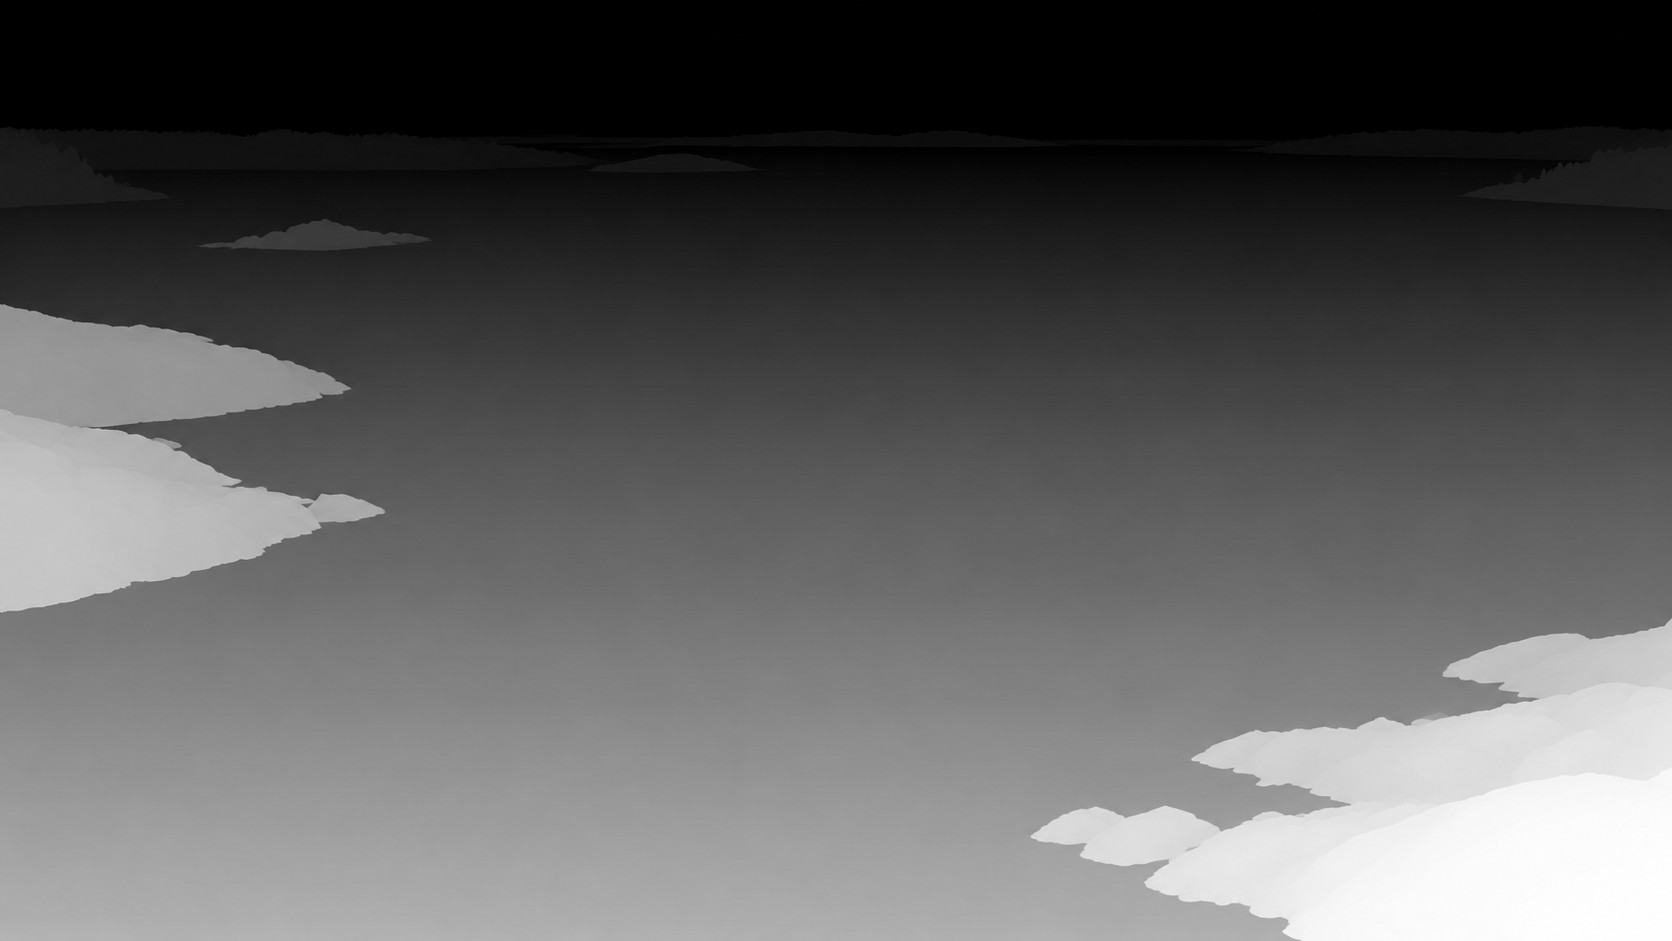
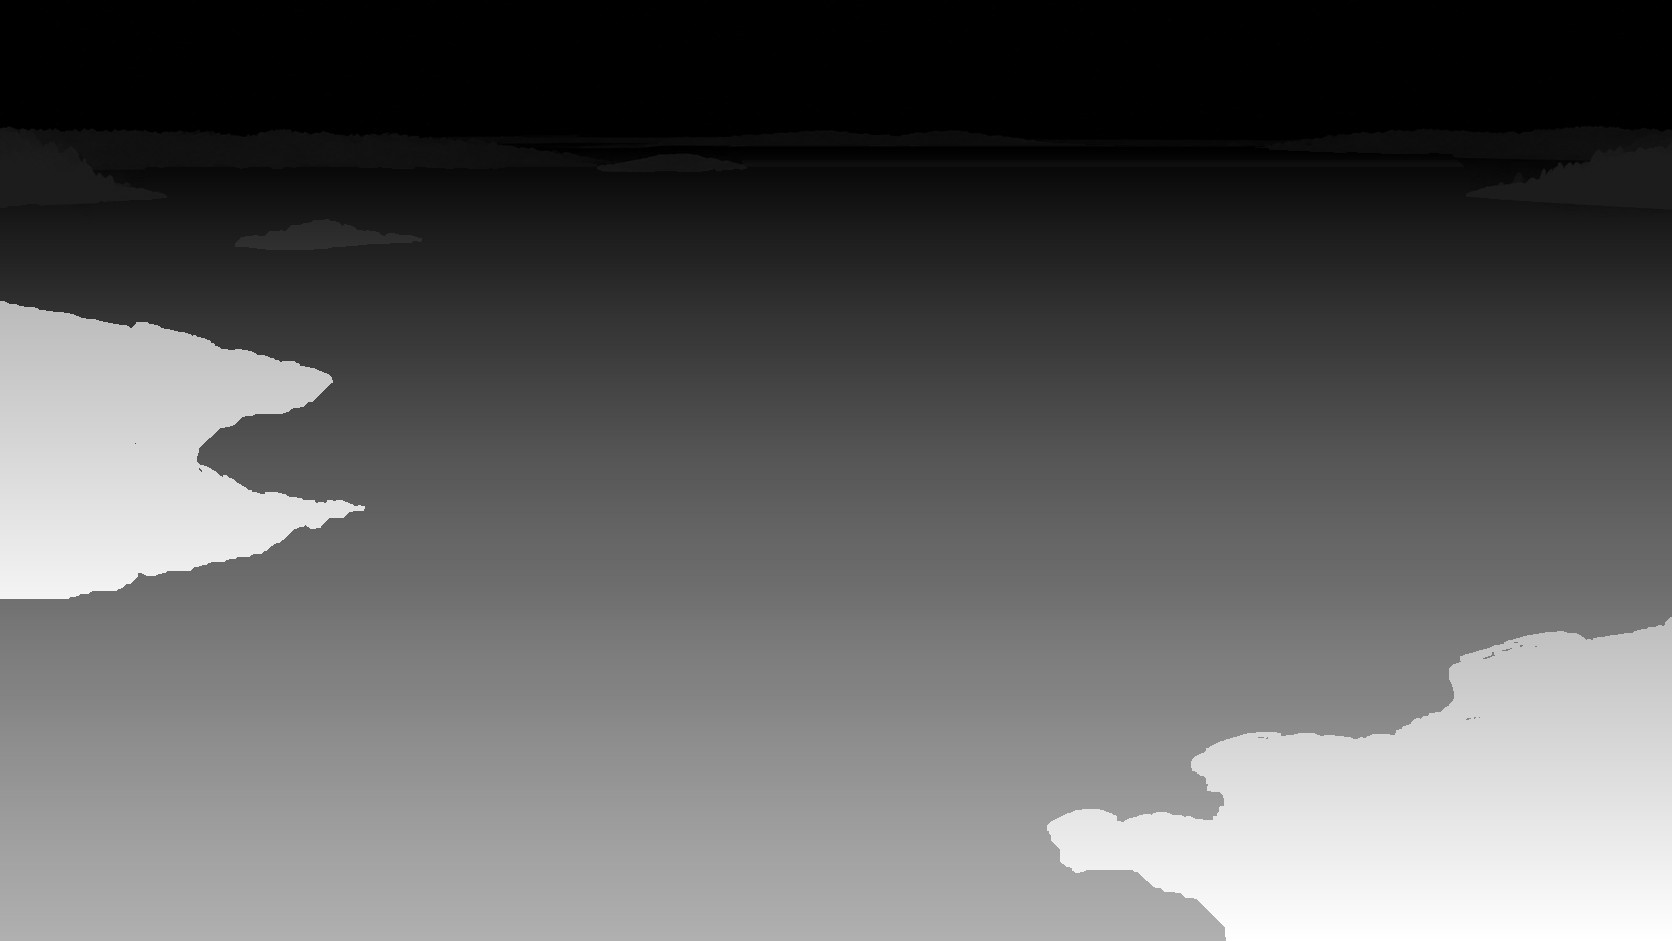
Live surf breaks along the rocks on the foam-free plate; the pan into the bay drips darkness sideways

diff --git a/index.html b/index.html
@@ -106,7 +106,7 @@ canvas { position: fixed; inset: 0; width: 100%; height: 100%; display: block; }
   // ---- the bay in 3D: loaded once the way in is clicked, drawn under this canvas once it shows ----
   let bay = null, bayLoad = null;
   const q0 = new URLSearchParams(location.search);
-  const loadBay = () => bayLoad || (bayLoad = import('./bay.js?v=' + (q0.get('v') || 'b38')).then(m => { bay = m.createBay($('bay')); window.observerBay = bay; return bay; }).catch(e => { console.warn('bay', e); return null; }));
+  const loadBay = () => bayLoad || (bayLoad = import('./bay.js?v=' + (q0.get('v') || 'b39')).then(m => { bay = m.createBay($('bay')); window.observerBay = bay; return bay; }).catch(e => { console.warn('bay', e); return null; }));
   const P = { x: 0, y: 0 };   // the point on screen this frame
   const wait = ms => new Promise(r => setTimeout(r, reduce ? Math.min(ms, 600) : ms));
   let skipping = false;
@@ -201,13 +201,16 @@ canvas { position: fixed; inset: 0; width: 100%; height: 100%; display: block; }
     openingCam.x += (aimX - openingCam.x) * camEase;
     openingCam.y += (aimY - openingCam.y) * camEase;
     const openingDepth = reduce ? 0 : Math.max(0, 1 - S.follow - S.bay);
-    const depthUnit = Math.min(W, H) * openingDepth;
-    const pointDx = openingCam.x * depthUnit * .004, pointDy = openingCam.y * depthUnit * .004;
+    const pointDx = openingCam.x * W * .002 * openingDepth;
+    const pointDy = openingCam.y * H * .0015 * openingDepth;
+    const eyeDx = openingCam.x * W * .003 * openingDepth;
+    const eyeDy = openingCam.y * H * .0025 * openingDepth;
     if (bay && S.follow > 0) {
       bay.st.fade = 1; bay.render(dt);
-      $('bay').style.transform = `translate3d(${(1 - S.follow) * W}px,0,0)`;
+      const travel = 2 * W;
+      $('bay').style.transform = `translate3d(${travel * (1 - S.follow)}px,0,0)`;
       g.clearRect(0, 0, W, H);
-      const seam = (1 - S.follow) * W;
+      const seam = travel * (1 - S.follow);
       g.fillStyle = '#050506'; g.fillRect(0, 0, seam, H);
       if (S.edge > 0) {
         const feather = Math.min(W * .24, 300);
@@ -215,8 +218,30 @@ canvas { position: fixed; inset: 0; width: 100%; height: 100%; display: block; }
         shadow.addColorStop(0, `rgba(5,5,6,${S.edge})`);
         shadow.addColorStop(1, 'rgba(5,5,6,0)');
         g.fillStyle = shadow; g.fillRect(seam, 0, feather, H);
+        // Darkness runs sideways off the edge like ink: uneven tendrils that
+        // creep and waver, each ending in a bead, drawn back as the bay settles.
+        const hash = n => { const s = Math.sin(n * 127.1) * 43758.5453; return s - Math.floor(s); };
+        g.save(); g.fillStyle = '#050506'; g.filter = `blur(${Math.max(1.5, W / 640)}px)`;
+        const count = Math.round(H / 55);
+        for (let i = 0; i < count; i++) {
+          const y = H * (i + hash(i + 1)) / count;
+          const len = feather * (.3 + 1.7 * Math.pow(hash(i + 9), 1.4)) * S.edge * (.86 + .14 * Math.sin(t * .6 + i * 2.3));
+          if (len < 8) continue;
+          const half = H * (.03 + .045 * hash(i + 21));
+          const wav = H * .01 * (.4 + hash(i + 33)), k = 2 + 3 * hash(i + 45), ph = t * .8 + i;
+          const at = u => y + Math.sin(u * k + ph) * wav * u;
+          // full at the edge, narrowing to a neck, then a heavy round end
+          const width = u => half * (1 - .7 * u * u * (3 - 2 * u));
+          const steps = 18;
+          g.beginPath(); g.moveTo(seam - 4, y - half * 1.6);
+          for (let s = 0; s <= steps; s++) { const u = s / steps; g.lineTo(seam + len * u, at(u) - width(u)); }
+          for (let s = steps; s >= 0; s--) { const u = s / steps; g.lineTo(seam + len * u, at(u) + width(u)); }
+          g.lineTo(seam - 4, y + half * 1.6); g.closePath(); g.fill();
+          g.beginPath(); g.arc(seam + len, at(1), half * (.42 + .16 * hash(i + 57)), 0, 7); g.fill();
+        }
+        g.restore();
       }
-      cx = W / 2 - S.follow * W;
+      cx = W / 2 - S.follow * travel;
     } else if (bay && S.bay > 0) {
       bay.st.fade = S.bay; bay.render(dt);
       const p = bay.screen(); cx += (p.x - cx) * S.bay; cy += (p.y - cy) * S.bay;
@@ -280,15 +305,15 @@ canvas { position: fixed; inset: 0; width: 100%; height: 100%; display: block; }
         if (S.pull >= 1 && r !== followRay) continue;
         const p = Math.max(0, Math.min(1, (S.lines - r.delay * .6) / .4)); if (!p) continue;
         const reach = R * r.d * (r === followRay ? 1 : 1 - S.pull);
-        const x0 = cx + Math.cos(r.a) * reach + openingCam.x * depthUnit * .032;
-        const y0 = cy + Math.sin(r.a) * reach + openingCam.y * depthUnit * .032;
+        const x0 = cx + Math.cos(r.a) * reach + openingCam.x * W * .020 * openingDepth;
+        const y0 = cy + Math.sin(r.a) * reach + openingCam.y * H * .0125 * openingDepth;
         const x1 = x0 + (cx - x0) * p, y1 = y0 + (cy - y0) * p;
         const lg = g.createLinearGradient(x0, y0, cx, cy);
         lg.addColorStop(0, 'rgba(233,228,218,0)'); lg.addColorStop(1, `rgba(233,228,218,${.22 * S.linesA})`);
         g.strokeStyle = lg; g.beginPath(); g.moveTo(x0, y0); g.lineTo(x1, y1); g.stroke();
       }
       if (S.follow > 0) {
-        const lampX = (1 - S.follow) * W + W / 2;
+        const lampX = (1 - S.follow) * 2 * W + W / 2;
         g.strokeStyle = `rgba(233,228,218,${.22 * (1 - S.follow)})`;
         g.beginPath(); g.moveTo(cx, cy); g.lineTo(lampX, cy); g.stroke();
       }
@@ -315,10 +340,10 @@ canvas { position: fixed; inset: 0; width: 100%; height: 100%; display: block; }
         const pe = Math.min(1, (t - eyeT0) / 2.6), eo = 1 - Math.pow(1 - pe, 3);
         const A = W * .45, B = H * .36, ea = S.pt * S.eye * (.75 - .4 * pe);
         if (titleW && S.titleA > 0) {
-          g.save(); eyePath(cx, cy, A * eo + 1, B * eo + 1); g.clip(); g.globalAlpha = S.titleA;
-          g.drawImage(titleCv, cx - titleW / 2 + openingCam.x * depthUnit * .011, H * .27 - titleH / 2 + openingCam.y * depthUnit * .011, titleW, titleH); g.restore();
+          g.save(); eyePath(cx + eyeDx, cy + eyeDy, A * eo + 1, B * eo + 1); g.clip(); g.globalAlpha = S.titleA;
+          g.drawImage(titleCv, cx - titleW / 2 + openingCam.x * W * .007 * openingDepth, H * .27 - titleH / 2 + openingCam.y * H * .0045 * openingDepth, titleW, titleH); g.restore();
         }
-        g.strokeStyle = `rgba(255,246,228,${ea})`; eyePath(cx, cy, 4 + A * eo, 2 + B * eo); g.stroke();
+        g.strokeStyle = `rgba(255,246,228,${ea})`; eyePath(cx + eyeDx, cy + eyeDy, 4 + A * eo, 2 + B * eo); g.stroke();
       }
       // the heartbeat, on each ping
       const n = Math.floor(t / 3.33); if (n !== lastBeat) { lastBeat = n; if (S.pt > .5) beat(); }
@@ -415,16 +440,16 @@ canvas { position: fixed; inset: 0; width: 100%; height: 100%; display: block; }
       await Promise.race([bay.ready, wait(8000)]);
       play('follow');
       followVolume(true);
-      const firstLine = say('Follow one line back.', 3400);
-      await tween('follow', .45, 2800, k => k * k * (3 - 2 * k));
-      await firstLine;
-      followVolume(false);
-      const nextLine = say('It leads into Robert Blake’s mind.', 3800);
-      await tween('follow', 1, 3300, k => k * k * (3 - 2 * k));
+      const voices = (async () => {
+        await say('Follow one line back.', 3400);
+        followVolume(false);
+        await say('It leads into Robert Blake’s mind.', 3800);
+      })();
+      await tween('follow', 1, 8400, k => k * k * (3 - 2 * k));
       S.bay = 1; S.linesA = 0;
-      await tween('edge', 0, 850);
+      await tween('edge', 0, 1000);
       S.follow = 0; $('bay').style.transform = '';
-      await nextLine;
+      await voices;
       return bayScene();
     }
     // without WebGL: the point becomes a lamp, going down on a cable into the bay

diff --git a/bay.js b/bay.js
@@ -616,9 +616,15 @@ export function createBay(canvas) {
   // Only the still shore, rocks and sky come from the sharp plate; every open
   // water pixel remains the live moving mesh. The focus pass follows it.
   const plate = new ShaderPass({
-    uniforms: { tDiffuse: { value: null }, scenery: { value: null }, stillMask: { value: null }, depthMap: { value: null }, sceneCam: { value: new THREE.Vector2() }, zoom: { value: 1 }, aspect: { value: 1.777 } },
+    uniforms: { tDiffuse: { value: null }, scenery: { value: null }, stillMask: { value: null }, depthMap: { value: null }, shoreMap: { value: null }, shoreReady: { value: 0 }, surfTime: { value: 0 }, sceneCam: { value: new THREE.Vector2() }, zoom: { value: 1 }, aspect: { value: 1.777 } },
     vertexShader: `varying vec2 vUv; void main() { vUv = uv; gl_Position = projectionMatrix * modelViewMatrix * vec4(position, 1.0); }`,
-    fragmentShader: `uniform sampler2D tDiffuse, scenery, stillMask, depthMap; uniform vec2 sceneCam; uniform float zoom, aspect; varying vec2 vUv;
+    fragmentShader: `uniform sampler2D tDiffuse, scenery, stillMask, depthMap, shoreMap; uniform vec2 sceneCam; uniform float zoom, aspect, shoreReady, surfTime; varying vec2 vUv;
+      float h(vec2 p) { return fract(sin(dot(p, vec2(127.1, 311.7))) * 43758.5453); }
+      float noise2(vec2 p) {
+        vec2 i = floor(p), f = fract(p); f = f * f * (3.0 - 2.0 * f);
+        return mix(mix(h(i), h(i + vec2(1.0, 0.0)), f.x),
+                   mix(h(i + vec2(0.0, 1.0)), h(i + 1.0), f.x), f.y);
+      }
       void main() {
         vec3 live = texture2D(tDiffuse, vUv).rgb;
         float scale = mix(1.0, 3.1, smoothstep(0.0, 1.0, zoom));
@@ -635,7 +641,51 @@ export function createBay(canvas) {
         vec2 skyUv = vec2(mix(.70, .50, crop) + (uv.x - .5) * crop, uv.y);
         vec3 photoSky = pow(texture2D(scenery, skyUv).rgb, vec3(.80));
         photo = mix(photo, photoSky, 1.0 - smoothstep(.13, .20, y));
-        gl_FragColor = vec4(mix(live, photo, still * fade), 1.0);
+        vec3 color = mix(live, photo, still * fade);
+        if (shoreReady > .5 && fade > .01) {
+          // The shore map is signed distance in source pixels: 128 at the
+          // waterline, lighter inland, darker in water. The foam crests climb
+          // the rock on one swell, then drain back on the next.
+          vec2 sourcePx = uv * vec2(1672.0, 941.0);
+          float distancePx = texture2D(shoreMap, uv).r * 255.0 - 128.0;
+          if (abs(distancePx) < 28.0) {
+            // Each swell reaches the shore at a different moment along it, so
+            // only stretches of the rock are breaking at any time.
+            float along = sourcePx.x * .013 + 1.6 * sin(sourcePx.x * .004 + sourcePx.y * .009);
+            float swell = sin(surfTime * 1.05 - along);
+            float surge = pow(max(swell, 0.0), 2.5);
+            float wash = pow(max(sin(surfTime * 1.05 - along - .9), 0.0), 1.5);
+            // the white climbs the rock as the swell lands, then drains back off it
+            float runup = -4.0 + 9.0 * surge;
+            vec2 q = mat2(.8, -.6, .6, .8) * sourcePx;
+            float n = .6 * noise2(q * .11 + vec2(surfTime * .5, -surfTime * .3))
+                    + .4 * noise2(q * .29 - vec2(surfTime * .9, surfTime * .6));
+            float broken = smoothstep(.36, .72, n);
+            float foam = exp(-pow((distancePx - runup) / (1.6 + 2.4 * surge), 2.0)) * surge * broken;
+            // what the last swell left: thin streaks pulled out on the water
+            float lace = exp(-pow((distancePx + 3.0 + 6.0 * (1.0 - wash)) / 3.0, 2.0)) * wash * (1.0 - surge) * .6
+                       * smoothstep(.55, .85, noise2(sourcePx * vec2(.11, .45) + vec2(surfTime * .3, surfTime * .8)));
+            float spray = 0.0;
+            vec2 cell = floor(sourcePx / 13.0);
+            for (int ix = -1; ix <= 1; ix++) for (int iy = -1; iy <= 1; iy++) {
+              vec2 id = cell + vec2(float(ix), float(iy));
+              float seed = h(id);
+              if (seed < .80) continue;
+              vec2 origin = (id + .5) * 13.0;
+              float atLine = abs(texture2D(shoreMap, origin / vec2(1672.0, 941.0)).r * 255.0 - 128.0);
+              // a burst only goes up where that stretch of shore is breaking
+              float hit = pow(max(sin(surfTime * 1.05 - (origin.x * .013 + 1.6 * sin(origin.x * .004 + origin.y * .009)) + .35), 0.0), 4.0);
+              float age = fract(surfTime * (.65 + .4 * h(id + 17.0)) + seed);
+              vec2 bead = origin + vec2((h(id + 7.0) - .5) * age * 13.0,
+                                         age * 30.0 - age * age * 16.0);
+              float radius = mix(2.4, .7, age);
+              spray += (1.0 - smoothstep(radius * .5, radius, length(sourcePx - bead)))
+                     * (1.0 - smoothstep(2.0, 8.0, atLine)) * (1.0 - age) * hit;
+            }
+            color += vec3(.62, .68, .72) * (foam * 1.1 + lace * .45 + spray * 1.0) * fade;
+          }
+        }
+        gl_FragColor = vec4(color, 1.0);
       }`,
   });
   plate.enabled = false;
@@ -656,6 +706,11 @@ export function createBay(canvas) {
     focus.uniforms.photoDepth.value = depthMap;
     plateReady = true;
   }).catch(e => console.warn('Zoom-out scenery unavailable', e));
+  plateLoader.loadAsync('models/web/zoomout_a_shore.png').then(shoreMap => {
+    shoreMap.minFilter = THREE.LinearFilter;
+    plate.uniforms.shoreMap.value = shoreMap;
+    plate.uniforms.shoreReady.value = 1;
+  }).catch(() => {});
   composer.addPass(plate);
   composer.addPass(focus);
   const bloom = new UnrealBloomPass(new THREE.Vector2(256, 256), .22, .25, .91); composer.addPass(bloom);
@@ -713,6 +768,7 @@ export function createBay(canvas) {
     const zoom = smooth(0, 1, st.zoom);
     plate.enabled = plateReady && zoom < .94;
     plate.uniforms.zoom.value = zoom;
+    plate.uniforms.surfTime.value = time;
     focus.uniforms.photoActive.value = plate.enabled ? 1 : 0;
     focus.uniforms.sceneZoom.value = zoom;
     moonDir.set(mix(-.35, -.62, zoom), mix(.035, .42, zoom), mix(-.90, -.66, zoom)).normalize();
